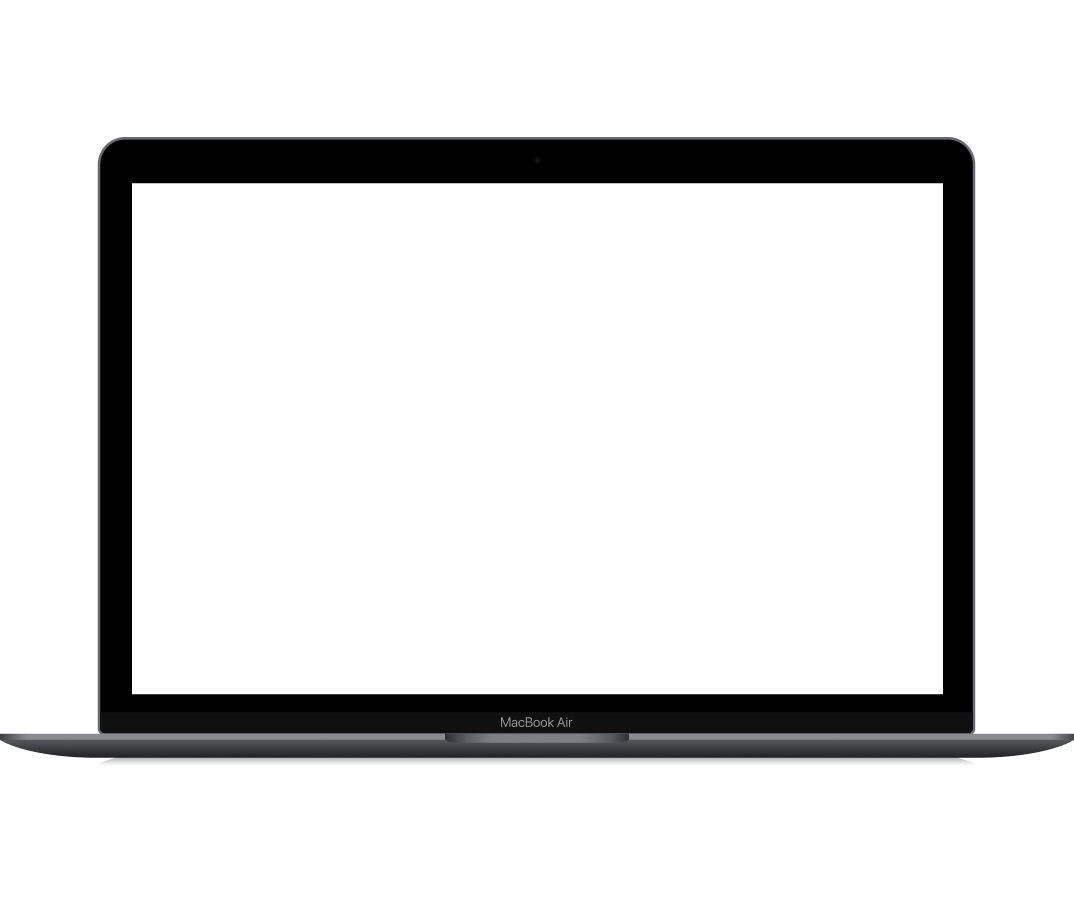
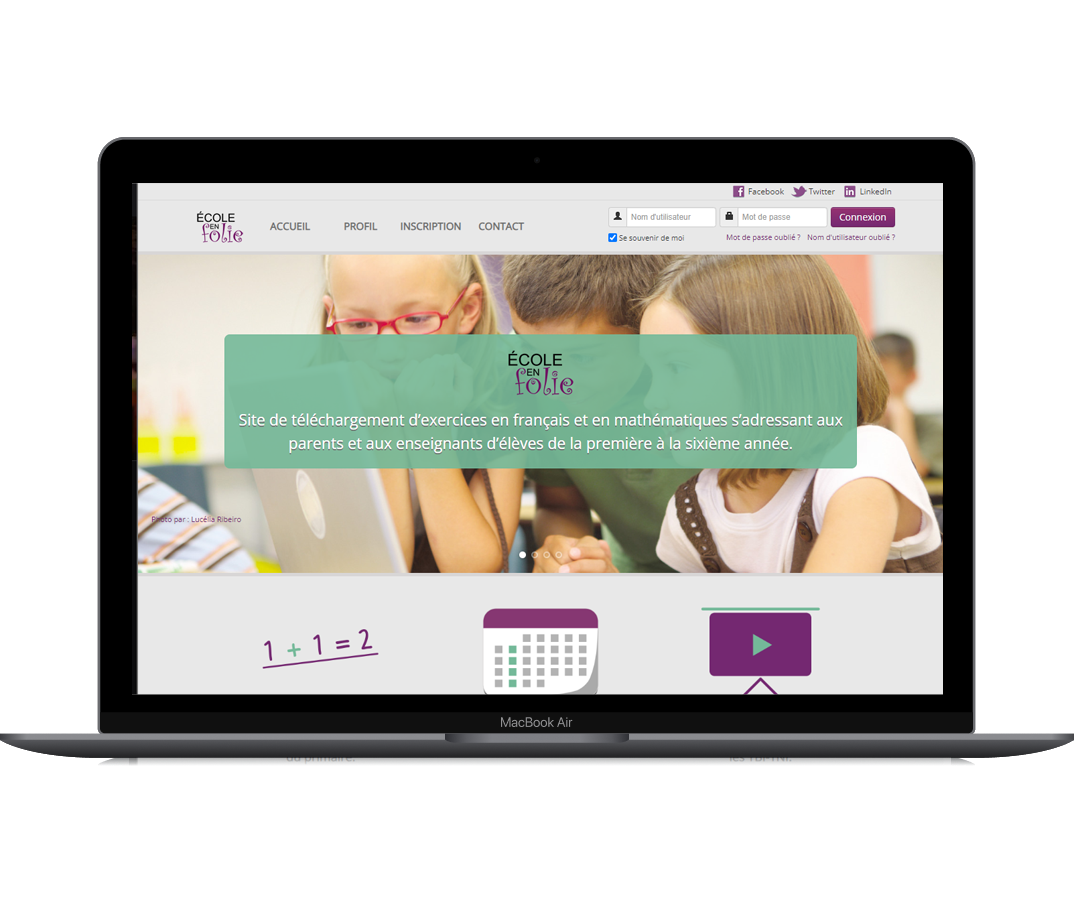
Add grid layout to display projects in Work component.

Changed region(s): [[0.1229, 0.1858, 0.8911, 0.7743], [0.2458, 0.7124, 0.3687, 0.7434], [0.0922, 0.8363, 0.1229, 0.8673]]

diff --git a/gb-portfolio/src/components/content/work/Work.tsx b/gb-portfolio/src/components/content/work/Work.tsx
@@ -3,6 +3,7 @@ import { useTranslation } from 'react-i18next';
 import ProjectCard from '../../cards/project-card/ProjectCard';
 import RecycMontrealMockup01 from '../../../assets/images/project-recycmontreal/iphone16-mock01.png';
 import RecycMontrealMockup02 from '../../../assets/images/project-recycmontreal/iphone16-mock02.png';
+import EcoleEnFolieMockup from '../../../assets/images/project-ecoleenfolie/macbook-mock.png';
 
 function Work() {
 
@@ -13,26 +14,31 @@ function Work() {
             <div id='work'>
                 <div className='content work-container'>
                     <h2 className='subheading'><span className='subheading-bold'>{t('headings.work')}</span> | {t('headings.workSubheading')}</h2>
-                    <div>
-                        <ProjectCard
-                            name={t('projectCardRecycMontreal.name')}
-                            type={t('projectCardRecycMontreal.type')}
-                            description={t('projectCardRecycMontreal.description')}
-                            imageUrl1={RecycMontrealMockup01}
-                            imageUrl2={RecycMontrealMockup02}
-                            imageAlt={t('projectCardRecycMontreal.imageAlt')}
-                            href={t('projectCardRecycMontreal.href')}
-                        />
+                    <div className='projects-layout'>
+                        <div className='project-card-container'>
+                            <ProjectCard
+                                name={t('projectCardRecycMontreal.name')}
+                                type={t('projectCardRecycMontreal.type')}
+                                description={t('projectCardRecycMontreal.description')}
+                                imageUrl1={RecycMontrealMockup01}
+                                imageUrl2={RecycMontrealMockup02}
+                                imageAlt={t('projectCardRecycMontreal.imageAlt')}
+                                href={t('projectCardRecycMontreal.href')}
+                                case='mobile'
+                            />
+                        </div>
+                        <div className='project-card-container'>
+                            <ProjectCard
+                                name={t('projectCardEcoleEnFolie.name')}
+                                type={t('projectCardEcoleEnFolie.type')}
+                                description={t('projectCardEcoleEnFolie.description')}
+                                imageUrl1={EcoleEnFolieMockup}
+                                imageAlt={t('projectCardEcoleEnFolie.imageAlt')}
+                                href={t('projectEcoleEnFolie.href')}
+                                case='web'
+                            />
+                        </div>
                     </div>
-
-                    {/*<ProjectCard
-                        name={t('projectEcoleEnFolie.name')}
-                        type={t('projectEcoleEnFolie.type')}
-                        description={t('projectEcoleEnFolie.description')}
-                        imageUrl={t('projectEcoleEnFolie.imageUrl')}
-                        imageAlt={t('projectEcoleEnFolie.imageAlt')}
-                        href={t('projectEcoleEnFolie.href')}
-                    />*/}
                 </div>
             </div>
         </>

diff --git a/gb-portfolio/src/components/content/work/Work.css b/gb-portfolio/src/components/content/work/Work.css
@@ -12,3 +12,38 @@
     margin-bottom: 1rem;
     text-transform: uppercase;
 }
+
+/* Fallback for older browsers using Flexbox */
+.projects-layout {
+    display: -webkit-box;
+    /* Older WebKit browsers */
+    display: -ms-flexbox;
+    /* IE10 */
+    display: flex;
+    flex-wrap: wrap;
+    gap: 1rem;
+}
+
+.projects-layout>div {
+    -webkit-box-flex: 1;
+    /* Older WebKit browsers */
+    -ms-flex: 1 1 calc(100% / 3 - 1rem);
+    /* IE10 */
+    flex: 1 1 calc(100% / 3 - 1rem);
+    min-width: 287px;
+}
+
+/* Modern Grid Layout if supported */
+@supports (display: grid) {
+    .projects-layout {
+        display: grid;
+        gap: 1rem;
+        grid-template-columns: repeat(auto-fit, minmax(287px, 1fr));
+    }
+}
+
+.project-card-container {
+    min-width: 287px;
+    width: 100%;
+    height: auto;
+}
